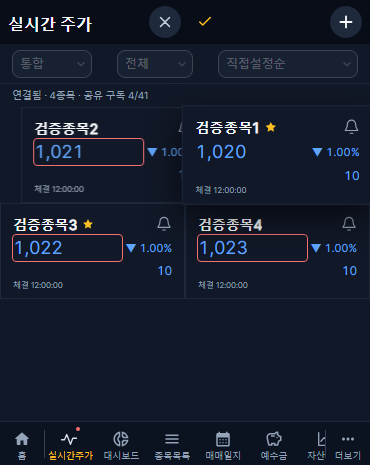
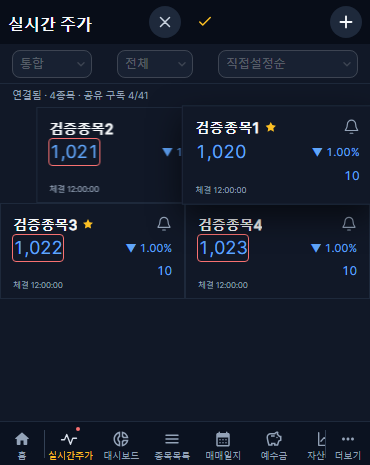
fix: keep transient price emphasis tightly around the amount

diff --git a/frontend/src/pages/live-quotes/QuoteCard.tsx b/frontend/src/pages/live-quotes/QuoteCard.tsx
@@ -29,9 +29,9 @@ export const QuoteCard=memo(function QuoteCard({stock,market,row,dragged=false,g
     sx={{position:'relative',minWidth:0,height:96,boxSizing:'border-box',px:'12px',py:'10px',bgcolor:colors.surface,border:`0.5px ${dragged?'dashed':'solid'} ${dragged?colors.focus:colors.border}`,opacity:dragged ? .18 : 1,userSelect:'none',WebkitTouchCallout:'none'}}>
     <Box sx={{display:'flex',alignItems:'center',justifyContent:'space-between',height:20,gap:'4px'}}><Box sx={{display:'flex',alignItems:'center',minWidth:0,gap:'5px'}}><Typography noWrap title={`${stock.name}(${stock.symbol})`} sx={{fontSize:14,fontWeight:600}}>{stock.name}</Typography>{stock.held&&<img src="/live-quotes/holding.svg" alt="보유" width={12} height={12}/>}</Box><img src="/live-quotes/bell.svg" alt="알림 기능 준비 중" width={16} height={16}/></Box>
     <Box sx={{display:'flex',alignItems:'center',gap:'4px',height:28,color:color(q?.change??0),fontVariantNumeric:'tabular-nums'}}>
-      <Box data-testid={ghost?undefined:'live-price-area'} data-flash={visibleFlash??''} sx={{flex:'1 1 auto',minWidth:0,position:'relative',borderRadius:'4px','&:after':{content:'""',pointerEvents:'none',position:'absolute',inset:'-1px',borderRadius:'4px',border:`1px solid ${tone.current==='up'?colors.marketRise:colors.marketFall}`,opacity:visibleFlash?1:0,transition:visibleFlash||flashMarket.current!==market?'none':'opacity 220ms ease'}}}>
+      <Box sx={{flex:'1 1 auto',minWidth:0}}><Box data-testid={ghost?undefined:'live-price-area'} data-flash={visibleFlash??''} sx={{display:'inline-flex',maxWidth:'100%',minWidth:0,position:'relative',borderRadius:'4px','&:after':{content:'""',pointerEvents:'none',position:'absolute',inset:'-1px',borderRadius:'4px',border:`1px solid ${tone.current==='up'?colors.marketRise:colors.marketFall}`,opacity:visibleFlash?1:0,transition:visibleFlash||flashMarket.current!==market?'none':'opacity 220ms ease'}}}>
         <Typography data-testid={ghost?undefined:'live-price'} title={number(q?.price)} sx={{fontSize:17.6,fontWeight:500,lineHeight:'26px',fontVariantNumeric:'tabular-nums',whiteSpace:'nowrap',overflow:'hidden',textOverflow:'ellipsis'}}>{number(q?.price)}</Typography>
-      </Box>
+      </Box></Box>
       <Box data-testid={ghost?undefined:'live-rate'} sx={{flex:'0 0 auto',fontSize:11,textAlign:'right',whiteSpace:'nowrap'}}>{q?`${q.change>0?'▲':q.change<0?'▼':'—'} ${Math.abs(q.rate).toFixed(2)}%`:'—'}</Box>
     </Box>
     <Box sx={{height:18,fontSize:12,lineHeight:'18px',textAlign:'right',color:color(q?.change??0),fontVariantNumeric:'tabular-nums'}}>{q?number(Math.abs(q.change)):'—'}</Box>
